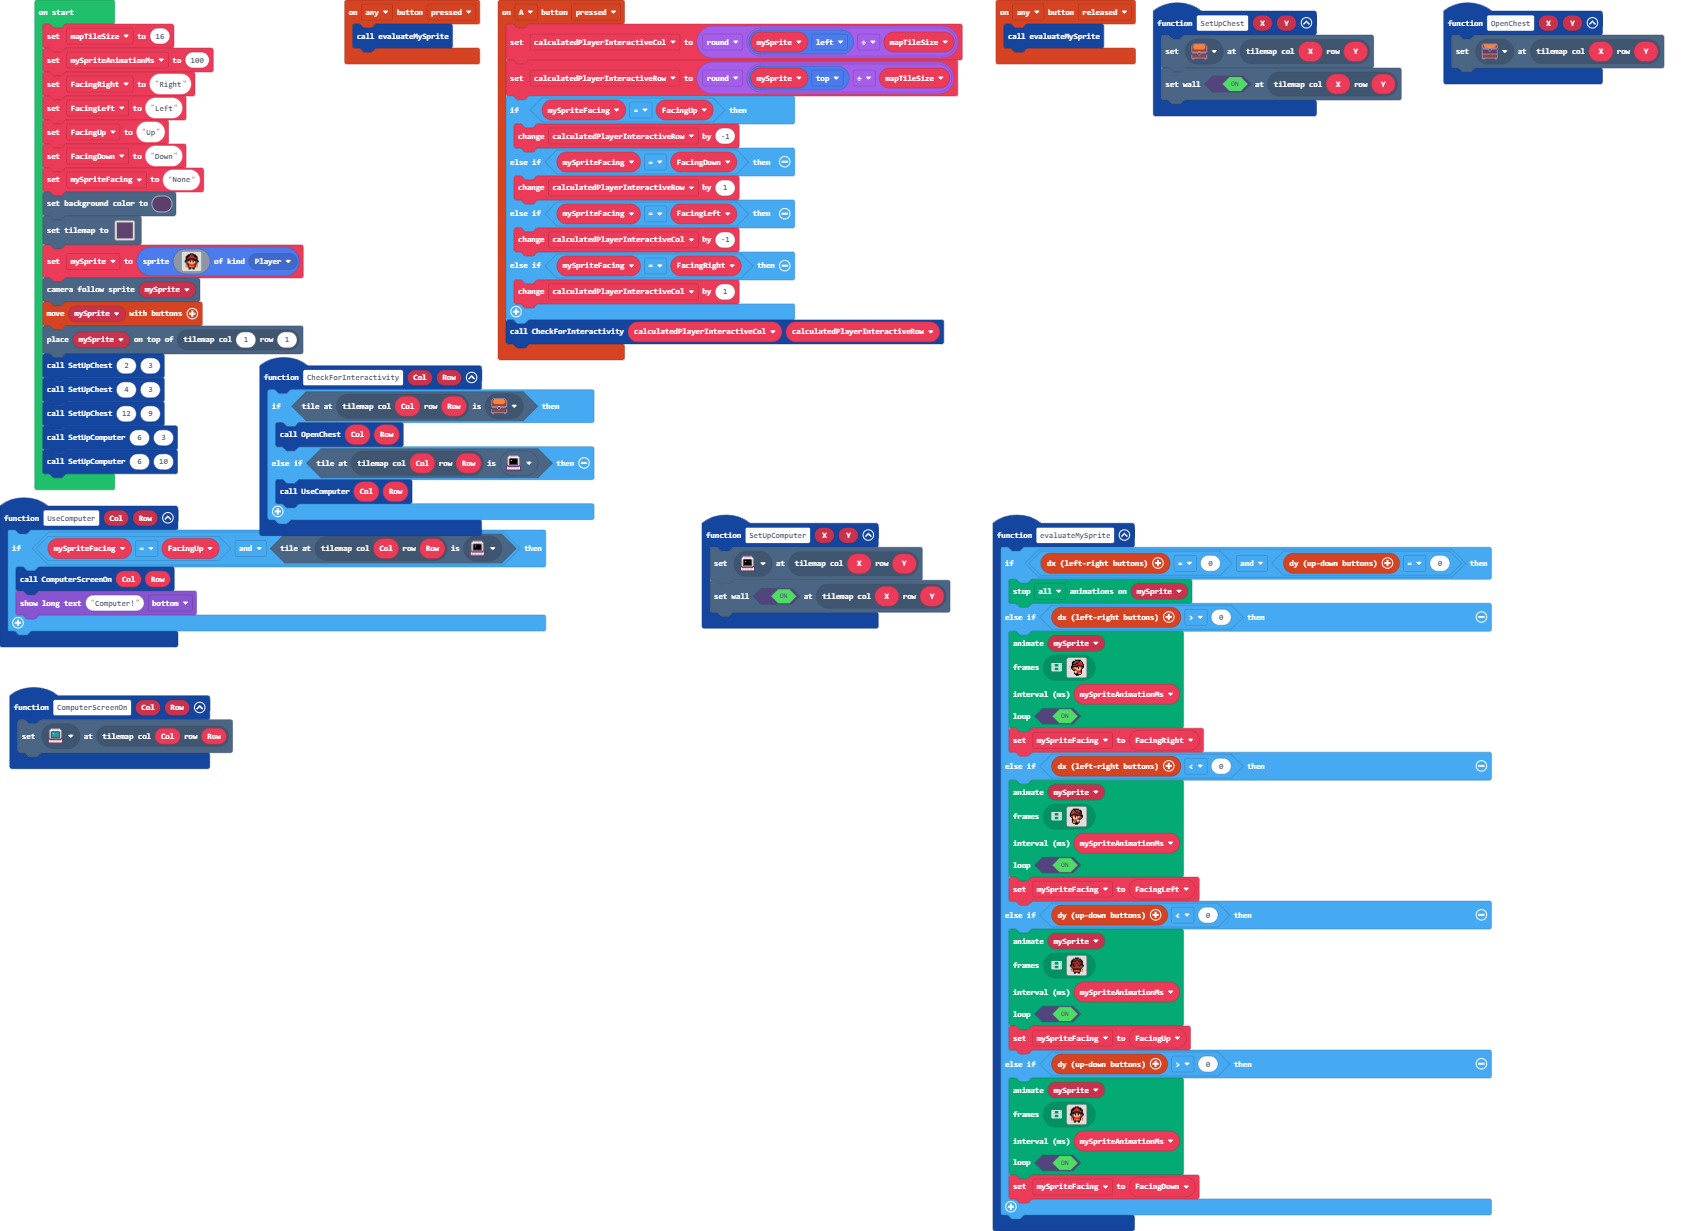
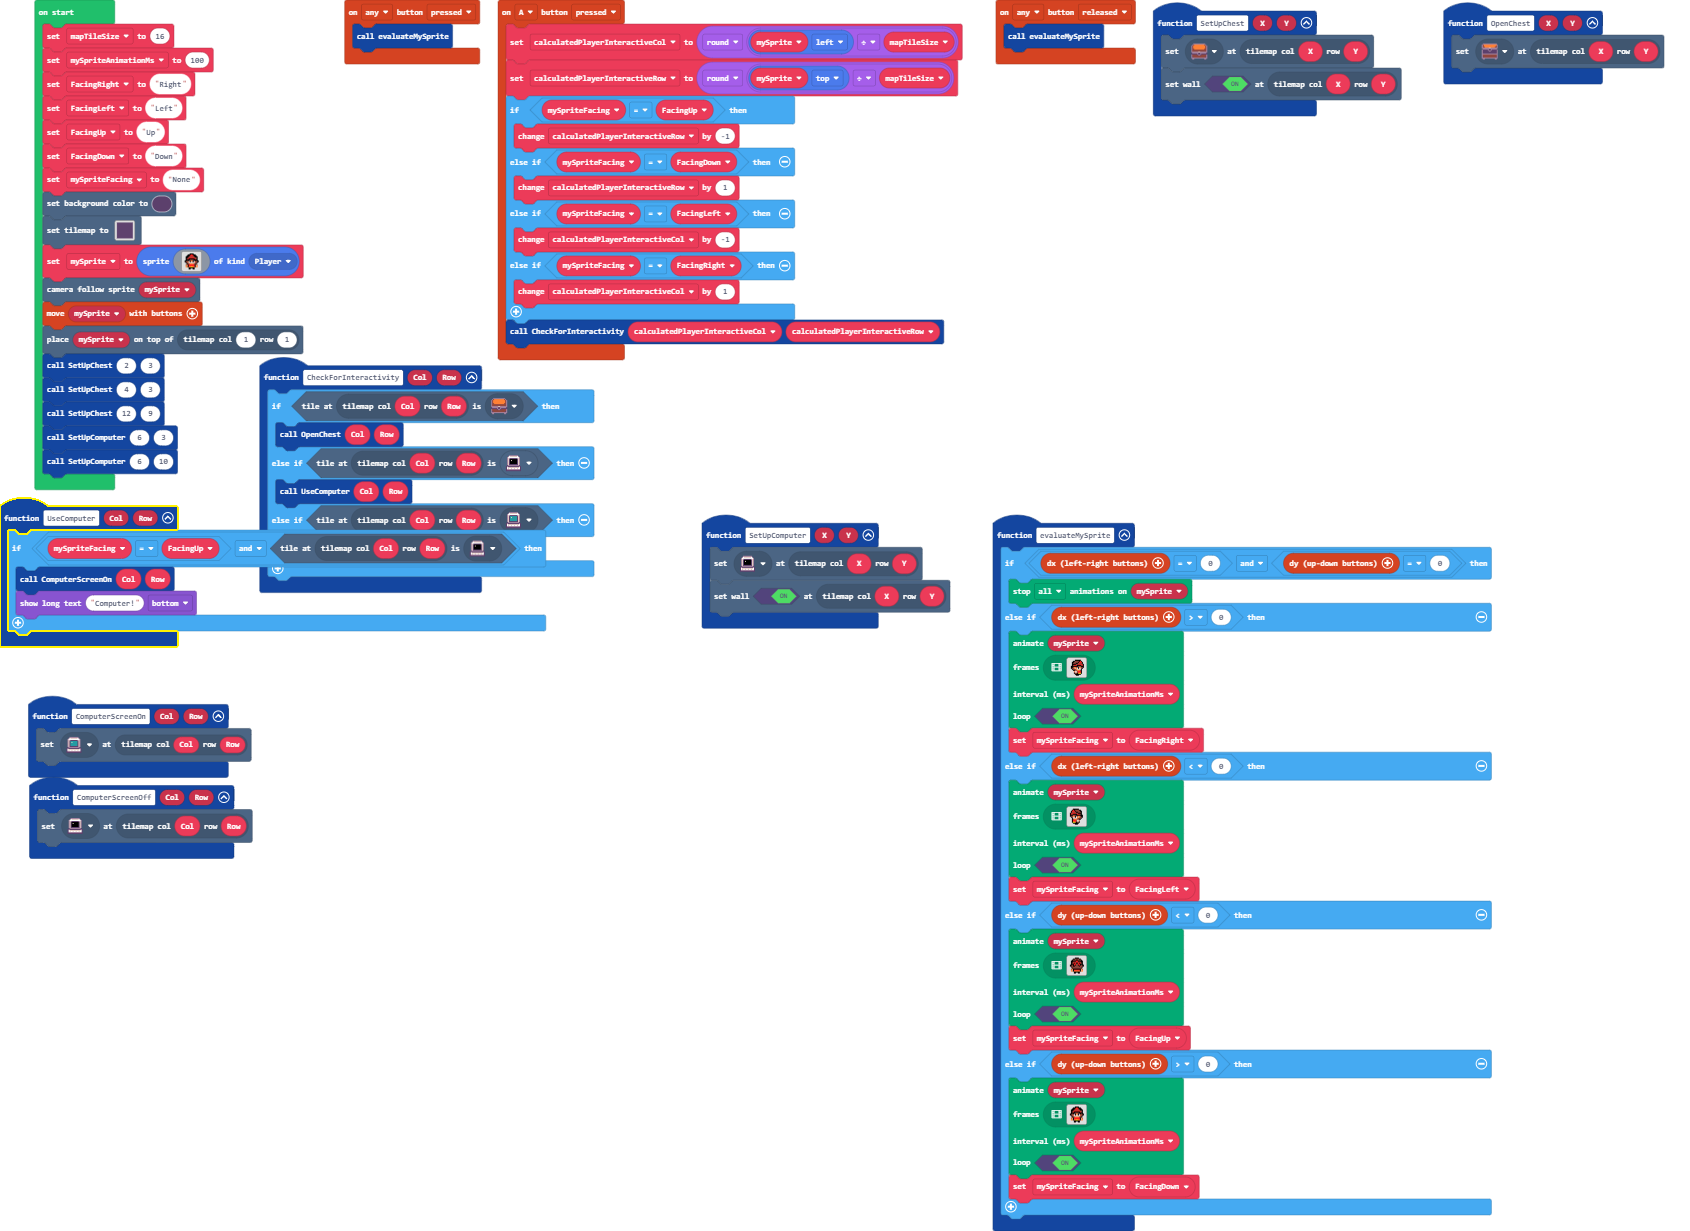
Turn Computer Screen off

Changed region(s): [[0.0, 0.5556, 0.1538, 0.71], [0.1538, 0.4013, 0.3692, 0.4939], [0.0, 0.4013, 0.0923, 0.4322]]

diff --git a/main.ts b/main.ts
@@ -34,11 +34,16 @@ function UseComputer (Col: number, Row: number) {
         game.showLongText("Computer!", DialogLayout.Bottom)
     }
 }
+function ComputerScreenOff (Col: number, Row: number) {
+    tiles.setTileAt(tiles.getTileLocation(Col, Row), assets.tile`ComputerScreenOn0`)
+}
 function CheckForInteractivity (Col: number, Row: number) {
     if (tiles.tileAtLocationEquals(tiles.getTileLocation(Col, Row), assets.tile`chestClosed`)) {
         OpenChest(Col, Row)
     } else if (tiles.tileAtLocationEquals(tiles.getTileLocation(Col, Row), assets.tile`ComputerScreenOn0`)) {
         UseComputer(Col, Row)
+    } else if (tiles.tileAtLocationEquals(tiles.getTileLocation(Col, Row), assets.tile`ComputerScreenOn`)) {
+        ComputerScreenOff(Col, Row)
     }
 }
 function SetUpComputer (X: number, Y: number) {
